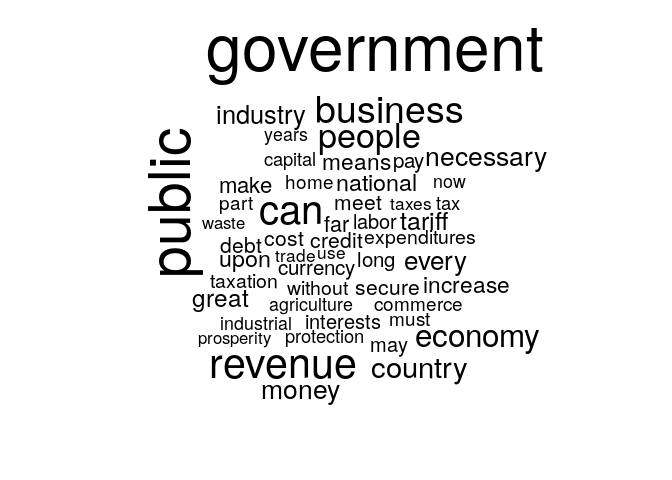
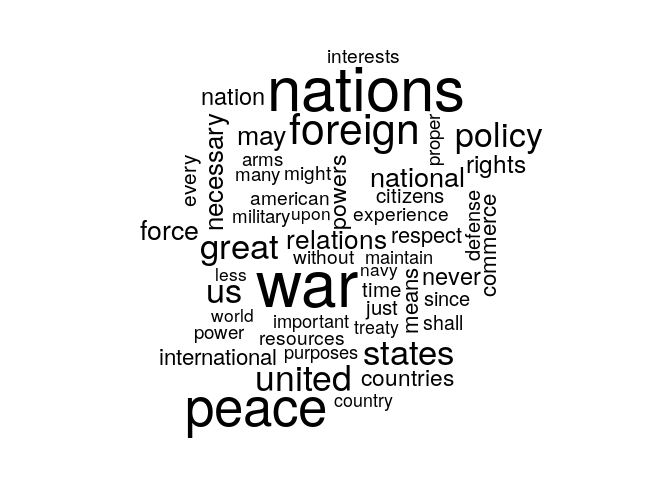
Update to fix topic model

Changed region(s): [[0.1875, 0.0625, 0.8125, 0.9062]]

diff --git a/tutorials/r_text_lda.md b/tutorials/r_text_lda.md
@@ -3,16 +3,22 @@ Fitting LDA Models in R
 Wouter van Atteveldt & Kasper Welbers
 2020-03
 
--   [Introduction](#introduction)
-    -   [Inspecting LDA results](#inspecting-lda-results)
-    -   [Visualizing LDA with LDAvis](#visualizing-lda-with-ldavis)
+# Introduction
 
-Introduction
-============
+LDA, which stands for Latent Dirichlet Allocation, is one of the most
+popular approaches for probabilistic topic modeling. The goal of topic
+modeling is to automatically assign topics to documents without
+requiring human supervision. Although the idea of an algorithm figuring
+out topics might sound close to magical (mostly because people have too
+high expectations of what these ‘topics’ are), and the mathematics might
+be a bit challenging, it is actually really simple fit an LDA topic
+model in R.
 
-LDA, which stands for Latent Dirichlet Allocation, is one of the most popular approaches for probabilistic topic modeling. The goal of topic modeling is to automatically assign topics to documents without requiring human supervision. Although the idea of an algorithm figuring out topics might sound close to magical (mostly because people have too high expectations of what these 'topics' are), and the mathematics might be a bit challenging, it is actually really simple fit an LDA topic model in R.
-
-A good first step towards understanding what topic models are and how they can be usefull, is to simply play around with them, so that's what we'll do here. First, let's create a document term matrix from the inaugural speeches in quanteda, at the paragraph level since we can expect these to be mostly about the same topic:
+A good first step towards understanding what topic models are and how
+they can be usefull, is to simply play around with them, so that’s what
+we’ll do here. First, let’s create a document term matrix from the
+inaugural speeches in quanteda, at the paragraph level since we can
+expect these to be mostly about the same topic:
 
 ``` r
 library(quanteda)
@@ -21,7 +27,9 @@ dfm = dfm(texts, remove_punct=T, remove=stopwords("english"))
 dfm = dfm_trim(dfm, min_docfreq = 5)
 ```
 
-To run LDA from a dfm, first convert to the topicmodels format, and then run LDA. Note the useof `set.seed(.)` to make sure that the analysis is reproducible.
+To run LDA from a dfm, first convert to the topicmodels format, and then
+run LDA. Note the useof `set.seed(.)` to make sure that the analysis is
+reproducible.
 
 ``` r
 library(topicmodels)
@@ -33,26 +41,33 @@ m
 
     ## A LDA_Gibbs topic model with 10 topics.
 
-Although LDA will figure out the topics, we do need to decide ourselves how many topics we want. Also, there are certain hyperparameters (alpha) that we can tinker with to have some control over the topic distributions. For now, we won't go into details, but do note that we could also have asked for 100 topics, and our results would have been much different.
+Although LDA will figure out the topics, we do need to decide ourselves
+how many topics we want. Also, there are certain hyperparameters (alpha)
+that we can tinker with to have some control over the topic
+distributions. For now, we won’t go into details, but do note that we
+could also have asked for 100 topics, and our results would have been
+much different.
 
-Inspecting LDA results
-----------------------
+## Inspecting LDA results
 
-We can use `terms` to look at the top terms per topic:
+We can use `terms` to look at the top terms per
+topic:
 
 ``` r
 terms(m, 5)
 ```
 
-| Topic 1      | Topic 2  | Topic 3  | Topic 4    | Topic 5 | Topic 6    | Topic 7 | Topic 8 | Topic 9 | Topic 10 |
-|:-------------|:---------|:---------|:-----------|:--------|:-----------|:--------|:--------|:--------|:---------|
-| government   | people   | can      | government | years   | government | must    | peace   | us      | war      |
-| states       | shall    | may      | congress   | world   | public     | life    | world   | let     | states   |
-| union        | citizens | one      | shall      | now     | revenue    | people  | can     | america | nations  |
-| people       | upon     | shall    | people     | us      | can        | liberty | nations | new     | great    |
-| constitution | fellow   | citizens | executive  | history | business   | upon    | must    | must    | united   |
+| Topic 1 | Topic 2   | Topic 3    | Topic 4 | Topic 5 | Topic 6 | Topic 7 | Topic 8    | Topic 9 | Topic 10   |
+| :------ | :-------- | :--------- | :------ | :------ | :------ | :------ | :--------- | :------ | :--------- |
+| people  | years     | government | states  | us      | war     | world   | government | us      | government |
+| upon    | world     | public     | united  | one     | nations | must    | every      | can     | congress   |
+| shall   | time      | revenue    | people  | america | peace   | can     | states     | new     | law        |
+| may     | president | business   | now     | every   | foreign | peace   | union      | world   | shall      |
+| public  | new       | must       | great   | must    | united  | freedom | people     | let     | upon       |
 
-The `posterior` function gives the posterior distribution of words and documents to topics, which can be used to plot a word cloud of terms proportional to their occurrence:
+The `posterior` function gives the posterior distribution of words and
+documents to topics, which can be used to plot a word cloud of terms
+proportional to their occurrence:
 
 ``` r
 topic = 6
@@ -61,8 +76,8 @@ topwords = head(sort(words, decreasing = T), n=50)
 head(topwords)
 ```
 
-    ## government     public    revenue        can   business     people 
-    ## 0.02217061 0.01937509 0.01313894 0.01270886 0.01163366 0.01034342
+    ##        war    nations      peace    foreign     united     states 
+    ## 0.02292936 0.02202018 0.01838349 0.01420129 0.01129194 0.01092827
 
 Now we can plot these words:
 
@@ -71,9 +86,10 @@ library(wordcloud)
 wordcloud(names(topwords), topwords)
 ```
 
-![](img/lda-wordcloud-1.png)
+![](img/lda-wordcloud-1.png)<!-- -->
 
-We can also look at the topics per document, to find the top documents per topic:
+We can also look at the topics per document, to find the top documents
+per topic:
 
 ``` r
 topic.docs = posterior(m)$topics[, topic] 
@@ -81,12 +97,13 @@ topic.docs = sort(topic.docs, decreasing=T)
 head(topic.docs)
 ```
 
-    ##  1889-Harrison.26  1889-Harrison.25 1933-Roosevelt.10      1909-Taft.13 
-    ##         0.9020000         0.8204545         0.7958333         0.7947368 
-    ##    1949-Truman.27   1921-Harding.23 
-    ##         0.7888889         0.7864865
+    ##   1813-Madison.5 1889-Harrison.18   1813-Madison.7   1949-Truman.39 
+    ##        0.9608696        0.8741935        0.8714286        0.8714286 
+    ##     1909-Taft.21   1949-Truman.25 
+    ##        0.8310345        0.8294118
 
-And we can find this document in the original texts by looking up the document id in the document variables `docvars`:
+And we can find this document in the original texts by looking up the
+document id in the document variables `docvars`:
 
 ``` r
 docs = docvars(dfm)
@@ -96,8 +113,8 @@ texts[docid]
 ```
 
     ## Corpus consisting of 1 document and 4 docvars.
-    ## 1889-Harrison.26 :
-    ## "It will be the duty of Congress wisely to forecast and estim..."
+    ## 1813-Madison :
+    ## "As the war was just in its origin and necessary and noble in..."
 
 Finally, we can see which president prefered which topics:
 
@@ -108,16 +125,24 @@ rownames(tpp) = tpp$President
 heatmap(as.matrix(tpp[-1]))
 ```
 
-![](img/lda-heatmap-1.png)
+![](img/lda-heatmap-1.png)<!-- -->
 
-As you can see, the topics form a sort of 'block' distribution, with more modern presidents and older presidents using quite different topics. So, either the role of presidents changed, or language use changed, or (probably) both.
+As you can see, the topics form a sort of ‘block’ distribution, with
+more modern presidents and older presidents using quite different
+topics. So, either the role of presidents changed, or language use
+changed, or (probably) both.
 
-To get a better fit of such temporal dynamics, see the session on *structural topic models*, which allow you to condition topic proportions and/or contents on metadata covariates such as source or date.
+To get a better fit of such temporal dynamics, see the session on
+*structural topic models*, which allow you to condition topic
+proportions and/or contents on metadata covariates such as source or
+date.
 
-Visualizing LDA with LDAvis
----------------------------
+## Visualizing LDA with LDAvis
 
-`LDAvis` is a nice interactive visualization of LDA results. It needs the LDA and DTM information in a slightly different format than what's readily available, but you can use the code below to create that format from the lda model `m` and the `dtm`:
+`LDAvis` is a nice interactive visualization of LDA results. It needs
+the LDA and DTM information in a slightly different format than what’s
+readily available, but you can use the code below to create that format
+from the lda model `m` and the `dtm`:
 
 ``` r
 dtm = dtm[slam::row_sums(dtm) > 0, ]
